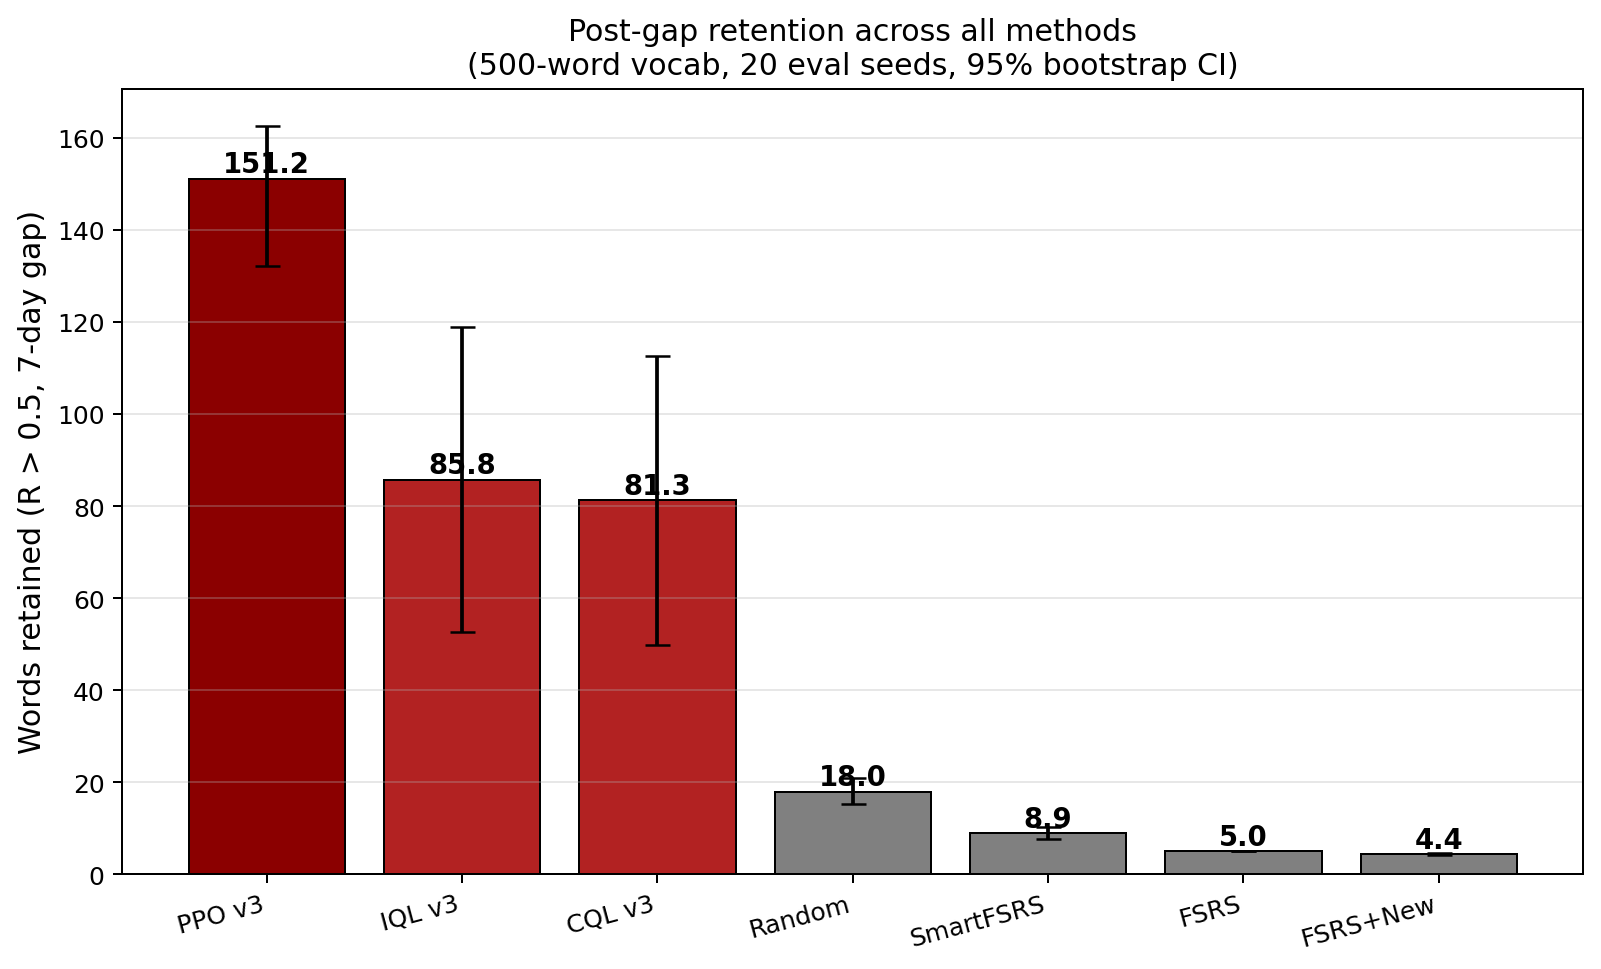
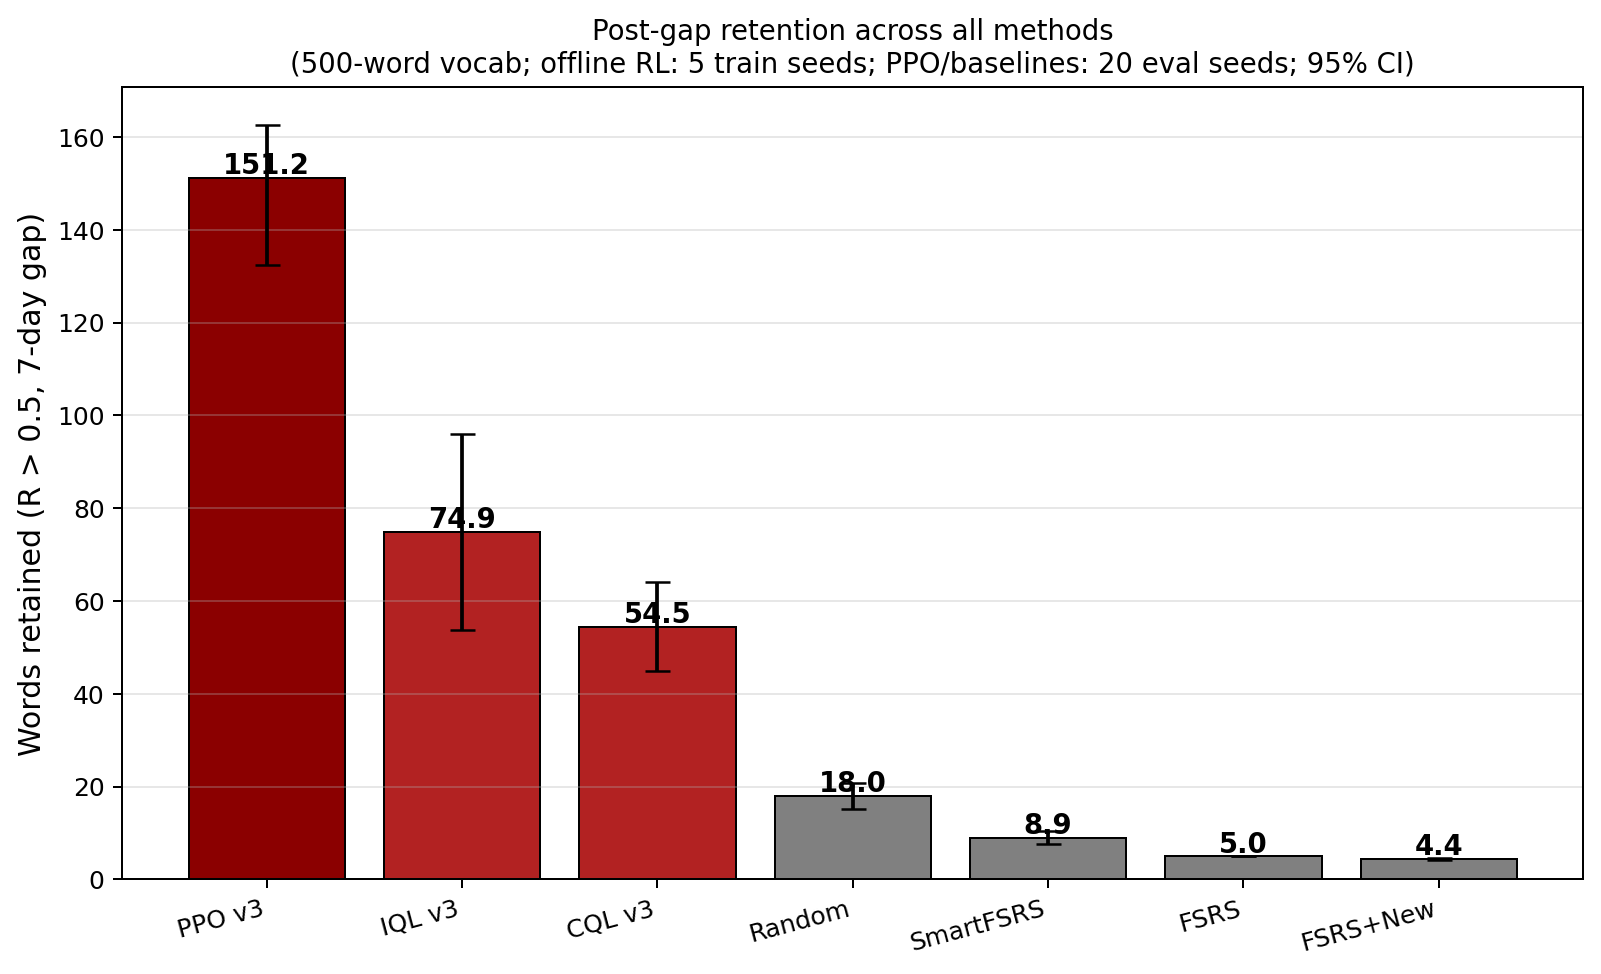
Multi-seed final numbers: tighter CIs, honest gap
Multi-seed Modal sweep finished (14 of 15 runs, full v3 settings + PPO
distillation, 100k steps each, 2hr timeout).

Updated retention numbers (5 train seeds per offline RL config):
  Method        ret_mean  ret_CI            n
  PPO (online)   151.2    [132.3, 162.6]    20 eval seeds (unchanged)
  IQL  beta=3     74.9    [ 53.8,  95.9]     5 train seeds  <- was 85.8 single
  IQL  beta=10    62.4    [ 41.1,  74.8]     4 train seeds
  CQL  alpha=1    54.5    [ 44.9,  64.2]     5 train seeds  <- was 81.4 single

The single-seed v3 numbers (IQL 86, CQL 81) were on the high end of the
distribution. Multi-seed reveals the true expected performance is lower
but with much tighter CIs. The story stays unchanged:
  - RL still crushes heuristics (4-34x range vs 5-30x before)
  - PPO still wins clearly (2x gap to offline vs 1.8x before)
  - Reward design still dominates (PPO improvement 22.9 -> 151 = 6.6x)
  - Honest research: multi-seed shows what single-seed obscured

Updated files:
  - results/headline_retention_20seeds.png (title now notes mixed seeds)
  - results/reward_design_impact.png (IQL/CQL multi-seed bars)
  - results/pareto_retention_naturalness.png
  - results/final_eval_multiseed.json
  - poster/plots/* (mirrors of above)
  - poster/poster.tex (updated 5-30x -> 4-34x, 56% -> 50% retention ratio)

WandB project: https://wandb.ai/onyie-stanford-university/adaptive-vocab-rl

diff --git a/poster/poster.tex b/poster/poster.tex
@@ -176,9 +176,9 @@
       \centering
       \includegraphics[width=0.98\colwidth]{headline_retention_20seeds.png}
     \end{figure}
-    Every RL method beats every heuristic by \textbf{5--30$\times$} on
+    Every RL method beats every heuristic by \textbf{4--34$\times$} on
     post-gap retention. Online RL (PPO) exceeds offline RL by
-    $\sim$1.8$\times$ — the cost of the deployment-realistic offline
+    $\sim$2$\times$ — the cost of the deployment-realistic offline
     constraint.
   \end{block}
 
@@ -209,7 +209,7 @@
     Naturalness from \emph{cross-family} judge (OpenAI gpt-4o-mini vs
     Claude Sonnet tutor — no self-preference). PPO matches Random
     naturalness with 8$\times$ retention; offline IQL has higher
-    naturalness than PPO at 56\% of retention.
+    naturalness than PPO at 50\% of retention.
   \end{block}
 
   \begin{block}{Discussion}
